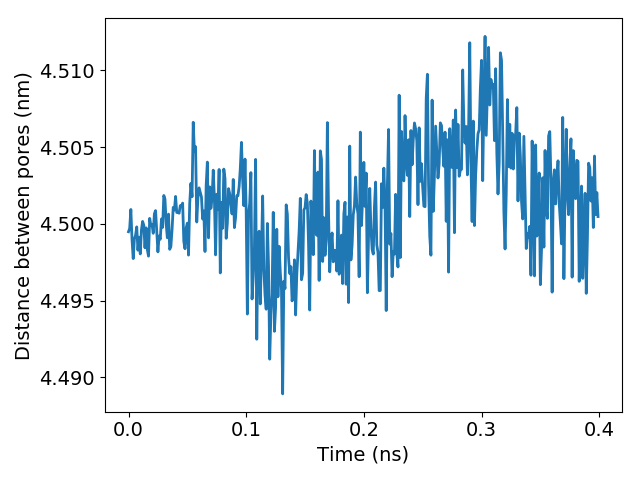
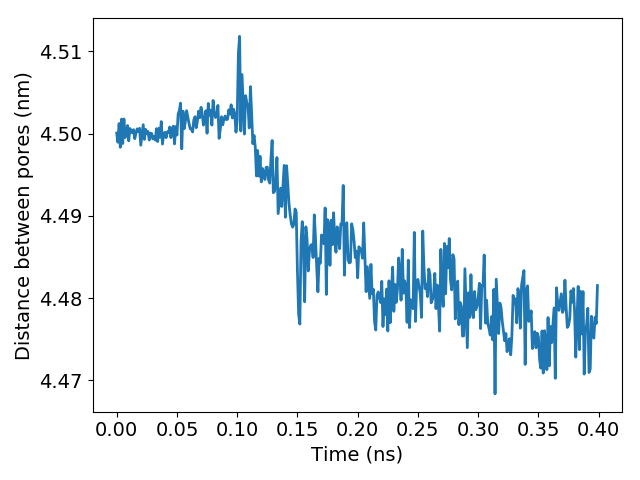
removed unneeded files

diff --git a/Ben_Manuscripts/structure_paper/supplemental.tex b/Ben_Manuscripts/structure_paper/supplemental.tex
@@ -259,39 +259,42 @@
 		have a test system with an intial spacing below the experimental value. As soon
 		as the restraining potential switches to 56 KJ mol$^{-1}$ nm$^{-2}$, the
 		columns are able to repel resulting in a large jump in pore spacing
-		(Figure~\ref{fig:p2p_39}). After 400 ns, the pore spacing is 4.05 $\pm$ 0.17 nm.
-		There is a large uncertainty in this value because the 1-4 pore spacing
-		(Figure~\ref{fig:p2p_diagram}) deviates significantly from all other pore
-		spacings. The 1-4 pore spacing is 4.31 nm while the average of all other pore
-		spacings is 3.96 nm. The system deviates from hexagonal geometry and is trending
-                towards cubic packing.
+		(Figure~\ref{fig:p2p_39}). %After 400 ns, the pore spacing is 4.05 $\pm$ 0.17 nm.
+%		There is a large uncertainty in this value because the 1-4 pore spacing
+%		(Figure~\ref{fig:p2p_diagram}) deviates significantly from all other pore
+%		spacings. The 1-4 pore spacing is 4.31 nm while the average of all other pore
+%		spacings is 3.96 nm. The system deviates from hexagonal geometry and is trending
+%                towards cubic packing.
 
 		\item 41 \AA~: We chose to test a pore spacing of 41 \AA~since
 		it closely matches the experimental pore spacing. Again, we observe abrupt
 		repulsion of columns once the restraining potential is switched to 56 KJ
-		mol$^{-1}$ nm$^{-2}$ (Figure~\ref{fig:p2p_41}). After 400 ns, the
-		average pore spacing settles below the experimental value at 4.07 $\pm$ 0.21
-		nm. Again, a large uncertainty in this value occurs because the 1-4 pore spacing
-		(Figure~\ref{fig:p2p_diagram}) deviates significantly from all other pore
-		spacings. The 1-4 pore spacing is 4.44 nm while the average of all other pore
-		spacings is 3.96 nm. 
+		mol$^{-1}$ nm$^{-2}$ (Figure~\ref{fig:p2p_41}). %After 400 ns, the
+%		average pore spacing settles below the experimental value at 4.07 $\pm$ 0.21
+%		nm. Again, a large uncertainty in this value occurs because the 1-4 pore spacing
+%		(Figure~\ref{fig:p2p_diagram}) deviates significantly from all other pore
+%		spacings. The 1-4 pore spacing is 4.44 nm while the average of all other pore
+%		spacings is 3.96 nm. 
 
 		\item 45 \AA~: A pore spacing of 45 \AA~is about 10 \% larger
-		than the experimental value. We observe relatively stable pore spacing during
-		the restrained portion of the dry equilibration procedure
-		(Figure~\ref{fig:p2p_45}). The equilibrated pore spacing is 4.23 $\pm$ 0.03 nm.
-		The system maintains hexagonal symmetry and exhibits the lowest uncertainty in
-		pore spacing. We chose to use this value for all our simulations in the main
-		text. 
+		than the experimental value. This systems exhibits the smallest response to our 
+ 		equilibration procedure (Figure~\ref{fig:p2p_45}) and we chose to use this
+                value for all our simulations in the main text.
+f		%The equilibrated pore spacing is 4.23 $\pm$ 0.03 nm.
+		%The system maintains hexagonal symmetry and exhibits the lowest uncertainty in
+		%pore spacing. We chose to use this value for all our simulations in the main
+		%text. 
 
-		\item 50 \AA~: We tested a pore spacing of 50 \AA, about 20 \% larger than the
-		experimental value. Once the restraining potential reaches 56 KJ mol$^{-1}$
-		nm$^{-2}$, the pore spacing begins to decrease linearly (Figure~\ref{fig:p2p_50}).
-		After 400 ns, the average pore spacing is 4.37 $\pm$ 0.13 nm. There is a large
-                uncertainty with this value because, again, the array of pores deviates from 
-                hexagonal character. Using Figure ~\ref{fig:p2p_diagram} as a reference, pore 
-                2 drifts outward from the array and forces the 1-4 distance to shrink in 
-                response.
+		\item 50 \AA~: We tested a pore spacing of 50 \AA, about 20 \%
+		larger than the experimental value. Once the restraining potential reaches 56
+		KJ mol$^{-1}$ nm$^{-2}$, the pore spacing begins to decrease rapidly, following
+		a linear trend (Figure~\ref{fig:p2p_50}).
+%		After 400 ns, the average pore spacing is 4.37 $\pm$ 0.13 nm.
+%		There is a large
+ %               uncertainty with this value because, again, the array of pores deviates from 
+ %               hexagonal character. Using Figure ~\ref{fig:p2p_diagram} as a reference, pore 
+  %              2 drifts outward from the array and forces the 1-4 distance to shrink in 
+   %             response.
                 
 		\item 55 \AA~: We tested a pore spacing of 55 \AA~which is at
 		a distance where monomers in each pore no longer intersect adjacent pores. Once
@@ -299,9 +302,9 @@
 		changes erratically until it begins to settle when the force constants are
 		below 3 KJ mol$^{-1}$ nm$^{-2}$ (Figure~\ref{fig:p2p_55}). We reccomend
 		avoiding a system such as this where vacuum gaps between pore columns are
-		introduced unnecessarily. The system equilibrates to a pore spacing of 4.27
-		$\pm$ 0.18 nm. The 1-2 pore spacing is the outlier in this case with a pore
-                spacing of 3.99 \AA~ which distorts the hexagonal array. 
+		introduced unnecessarily. %The system equilibrates to a pore spacing of 4.27
+%		$\pm$ 0.18 nm. The 1-2 pore spacing is the outlier in this case with a pore
+ %               spacing of 3.99 \AA~ which distorts the hexagonal array. 
 
 	  \end{enumerate} 
 

diff --git a/Ben_Manuscripts/structure_paper/Draft.tex b/Ben_Manuscripts/structure_paper/Draft.tex
@@ -1173,18 +1173,19 @@ If our system met the definition of a
   The R-spots signal, which appears in both simulated XRD patterns, is not a
   result of alkane chain tilt. Previous literature has attributed the spots in
   this particular WAXS pattern as the product of tilted alkane
-  chains~\cite{feng_scalable_2014}. We measured the tilt angle of the alkane
-  chains and showed that our system equilibrates to an average tilt angle close
-  to zero degrees (Fig.~\ref{fig:tilt}). To understand the origin of R-spots,
-  we determined which atoms gave rise to the feature. Since R-spots is present as
-  higher intensity spots within R-alkanes, it is likely that the spots arise as a
-  consequence of the tails. By removing all non-tail atoms from the trajectory
-  and simulating a diffraction pattern, we were able to isolate the cause of the
-  spots to the tails (Figure~\ref{fig:tails}). Since the tails stay nearly flat,
-  we plotted the centroids of the tails and measured the angle between each
-  centroid and its nearest neighbors with respect to the plane of the membrane.
-  We see distinct peaks in the distribution of these angles
-  (Figure~\ref{fig:tail_packing}).
+  chains~\cite{feng_scalable_2014}. We looked closer at the sandwiched
+  configuration since R-spots appears with the most strength in its simulated XRD
+  pattern. We measured the tilt angle of the alkane chains and showed that our
+  system equilibrates to an average tilt angle close to zero degrees
+  (Fig.~\ref{fig:tilt}). To understand the origin of R-spots, we determined which
+  atoms gave rise to the feature. Since R-spots is present as higher intensity
+  spots within R-alkanes, it is likely that the spots arise as a consequence of
+  the tails. By removing all non-tail atoms from the trajectory and simulating a
+  diffraction pattern, we were able to isolate the cause of the spots to the
+  tails (Figure~\ref{fig:tails}). Since the tails stay nearly flat, we plotted
+  the centroids of the tails and measured the angle between each centroid and its
+  nearest neighbors with respect to the plane of the membrane.  We see distinct
+  peaks in the distribution of these angles (Figure~\ref{fig:tail_packing}).
 
   \begin{figure}
   \centering

diff --git a/HII/Scripts/correlation.py b/HII/Scripts/correlation.py
@@ -157,12 +157,11 @@ if __name__ == "__main__":
 
     ###################### 3D center of mass #########################
 
-    #keep = [a.index for a in t.topology.atoms if a.name in args.atoms]  # indices of atoms to keep
-    keep = [a.index for a in t.topology.atoms if a.residue.name == 'HOH' and a.name == 'O']  # indices of atoms to keep
+    keep = [a.index for a in t.topology.atoms if a.name in args.atoms]  # indices of atoms to keep
+    #keep = [a.index for a in t.topology.atoms if a.residue.name == 'HOH' and a.name == 'O']  # indices of atoms to keep
 
     natoms = len(args.atoms)
     monomers_per_layer = int(len(keep) / args.layers / npores / len(args.atoms))  # divide by len(args.atoms) because of com
-
     center_of_mass = com(t.xyz[:, keep, :], mass)  # calculate centers of mass of atom groups
 
     com_per_pore = int(center_of_mass.shape[1] / npores)
@@ -185,7 +184,6 @@ if __name__ == "__main__":
         frames = t.n_frames
 
         if args.slice == 'xy' or args.slice == 'yx':
-
             for frame in tqdm.tqdm(range(frames)):
                 for p in range(npores):
                     for l in range(args.layers):
@@ -199,12 +197,10 @@ if __name__ == "__main__":
                             H, edges = np.histogramdd(trans, bins=bins, range=hist_range)
                             correlation += H
         else:
-
             for frame in tqdm.tqdm(range(frames)):
                 for p in range(npores):
                     for l in range(args.layers):
                         for a in range(monomers_per_layer):
-
                             pt = p*com_per_pore + l*monomers_per_layer + a  # index of center of mass reference point
                             translated = periodic_pts[frame, :, :] - periodic_pts[frame, pt, :]  # make pt the origin
                             H, edges = np.histogramdd(translated, bins=bins, range=hist_range)

diff --git a/HII/Scripts/tilt.py b/HII/Scripts/tilt.py
@@ -35,6 +35,8 @@ def initialize():
     parser.add_argument('--single_frame', help='Specify this for a single frame', action="store_true")
     parser.add_argument('--noshow', help='Specify this flag if you do not want to see the output plot', action="store_true")
     parser.add_argument('--plot_every', default=1, type=int, help='Plot every n frames')
+    parser.add_argument('-b', '--begin', default=0, type=int, help='Start frame')
+    parser.add_argument('--skip', default=1, type=int, help='Only look at every nth frame')
 
     args = parser.parse_args()
 
@@ -113,7 +115,7 @@ if __name__ == "__main__":
         if args.single_frame:
             traj = md.load('%s' % args.gro)
         else:
-            traj = md.load('%s' % args.traj, top='%s' % args.gro)
+            traj = md.load('%s' % args.traj, top='%s' % args.gro)[args.begin::args.skip]
         times = traj.time
         nT = times.shape[0]
         for i in range(ngrps):
@@ -151,10 +153,10 @@ if __name__ == "__main__":
         plt.ylabel('Probability', fontsize=14)
         plt.tight_layout()
         plt.savefig('tilt_dist.png')
-        plt.show()
-        exit()
-        print(all_tilt_angles.shape)
-        exit()
+        # plt.show()
+        # exit()
+        # print(all_tilt_angles.shape)
+        # exit()
         avgs = np.zeros([nT])
         stds = np.zeros([nT])
 

diff --git a/Ben_Manuscripts/structure_paper/figures/p2p_table.py b/Ben_Manuscripts/structure_paper/figures/p2p_table.py
@@ -4,7 +4,7 @@ import numpy as np
 import matplotlib.pyplot as plt
 import pandas as pd
 
-raw_data = {'nmon': ['4', '5', '6', '7', '8'], 'layered': [3.72, 4.20, 4.69, 4.66, 5.00], 'layered_err' : [0.04, 0.04, 0.04, 0.02, 0.04], 'offset': [3.84, 4.23, 4.72, 4.82, 5.33], 'offset_err': [0.02, 0.03, 0.03, 0.03, 0.02]}
+raw_data = {'nmon': ['4', '5', '6', '7', '8'], 'layered': [3.71, 4.18, 4.69, 4.66, 5.00], 'layered_err' : [0.09, 0.13, 0.11, 0.05, 0.10], 'offset': [3.84, 4.17, 4.72, 4.82, 5.33], 'offset_err': [0.07, 0.12, 0.07, 0.09, 0.05]}
 
 #raw_data = {'nmon': ['4', '5', '6', '7', '8'], 'four': [3.72, 3.84, 0.04, 0.02], 'five': [4.20, 4.23, 0.04, 0.04], 'six': [4.69, 4.72, 0.04, 0.03], 'seven' : [ 4.66, 4.82, 0.02, 0.03], 'eight': [5.00, 5.33, 0.04, 0.02]}
 

diff --git a/HII/Scripts/tail_packing.py b/HII/Scripts/tail_packing.py
@@ -19,7 +19,8 @@ import tqdm
 
 def initialize():
 
-    parser = argparse.ArgumentParser(description='Measure Membrane Thickness')
+    parser = argparse.ArgumentParser(description='Measure distribution of angles between tail centroids and nearest'
+                                                 'neighbor tail centroids')
 
     parser.add_argument('-g', '--gro', type=str, default='wiggle.gro', help='Path to input file')
     parser.add_argument('-t', '--traj', type=str, default='traj_whole.xtc', help='Trajectory file (.xtc or .trr)')
